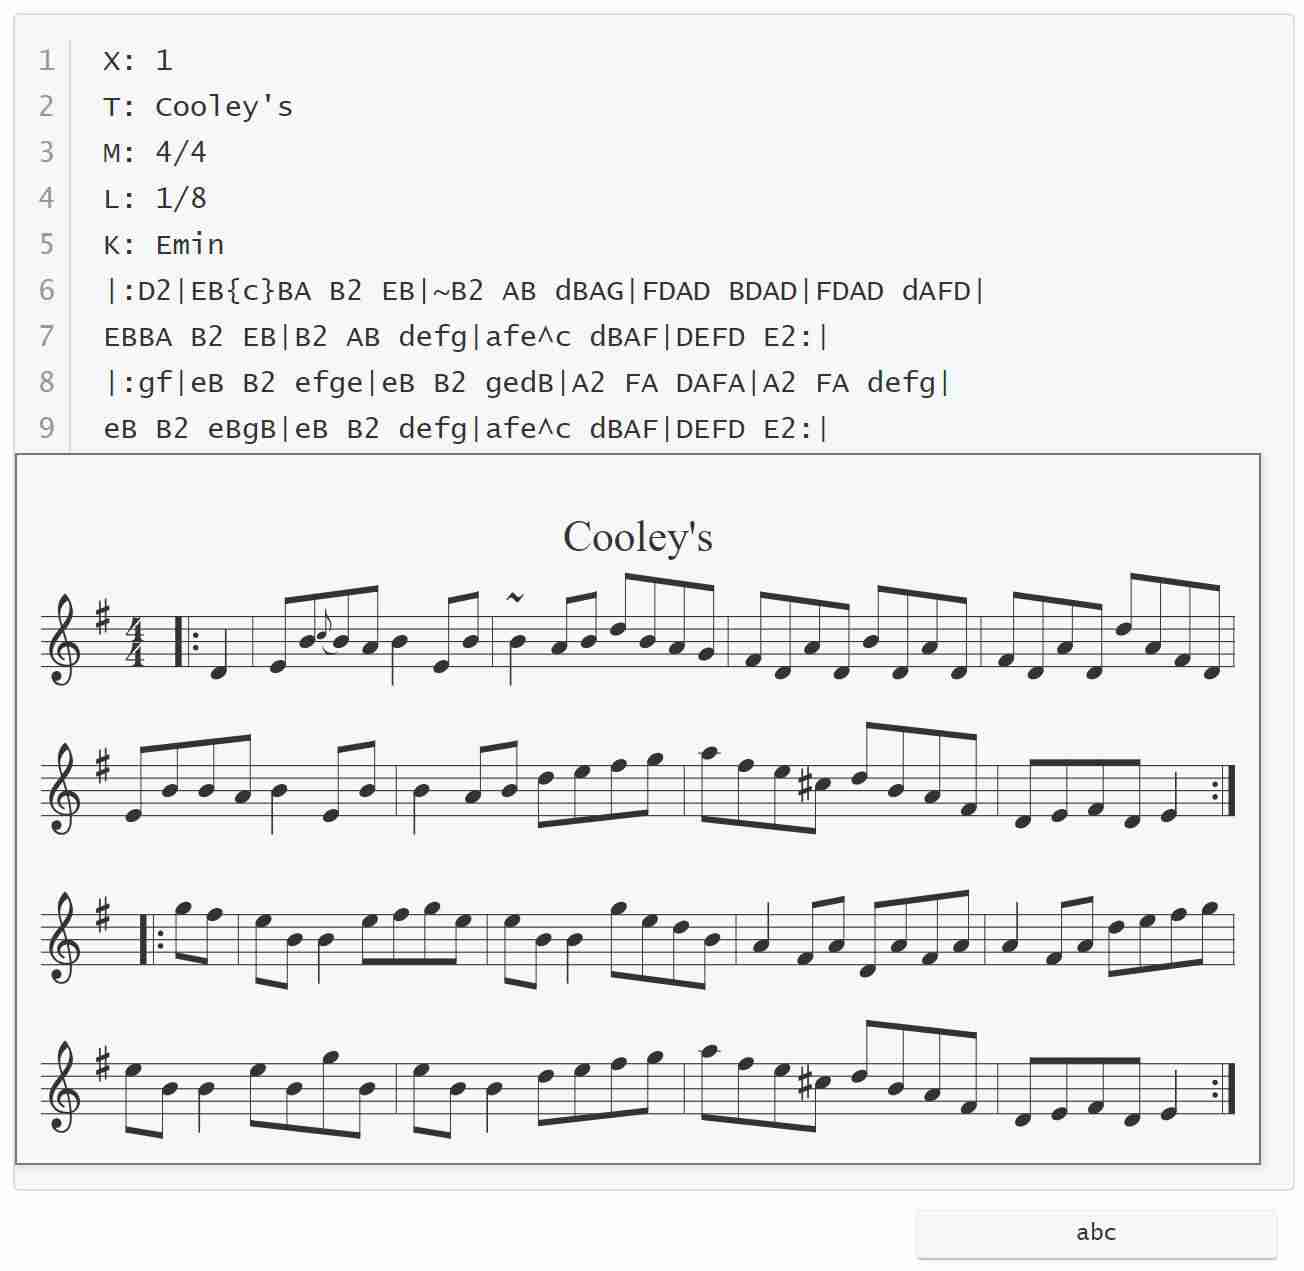
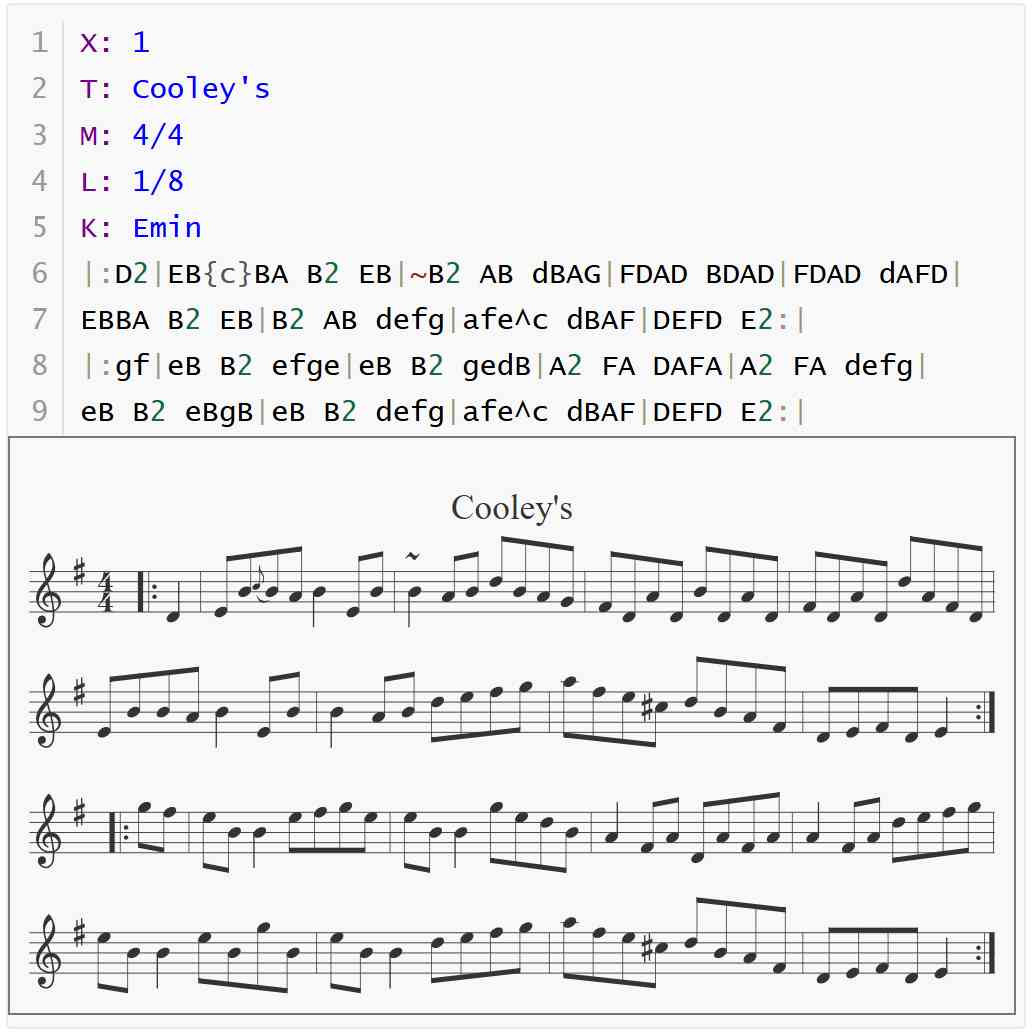
feat(plugin): add abcjs codeblock syntax highlighting

Changed region(s): [[0.0, 0.031, 0.9894, 0.9922]]

diff --git a/src/main.ts b/src/main.ts
@@ -8,6 +8,7 @@ export default class extends Plugin<AbcSettings> {
 
   private lang = DEFAULT_SETTINGS.codeblockType
   private processorDisposable: any
+  private highlightDisposable: any
 
   onload() {
 
@@ -21,10 +22,13 @@ export default class extends Plugin<AbcSettings> {
     this.registerSettingTab(new AbcSettingTab(this))
 
     this.registerAbcPostProcessor()
+    this.registerCodeblockHighlightMode()
     this.register(
       this.settings.onChange('codeblockType', () => {
         this.unregisterAbcPostProcessor()
+        this.unregisterHighlightMode()
         this.registerAbcPostProcessor()
+        this.registerCodeblockHighlightMode()
       }))
   }
 
@@ -52,9 +56,76 @@ export default class extends Plugin<AbcSettings> {
   }
 
   unregisterAbcPostProcessor() {
-    this.processorDisposable()
-    this.unregister(this.processorDisposable)
-
+    this.processorDisposable && this.processorDisposable()
     $(`pre[lang="${this.lang}"] .md-diagram-panel.md-fences-adv-panel`).remove()
+  }
+
+  registerCodeblockHighlightMode() {
+    const modeFactory = () => ({
+      startState: () => ({ header: false }),
+      copyState: (state: any) => ({ header: state.header }),
+      blankLine: (state: any) => { state.header = false },
+      token: (stream: any, state: any) => {
+        if (stream.sol()) state.header = false
+
+        // comment to end of line
+        if (stream.match(/^%.*/)) return 'comment'
+
+        // header field (X:, T:, K:, ...) and its value, valid at line start
+        if (stream.sol() && stream.match(/^[A-Za-z]:/)) {
+          state.header = true
+          return 'keyword'
+        }
+        if (state.header) {
+          stream.skipToEnd()
+          return 'def'
+        }
+
+        if (stream.eatSpace()) return null
+
+        // inline field [K:G] / annotation
+        if (stream.match(/^\[[A-Za-z]:/)) return 'keyword'
+        // chord [CEG] (do not cross bar lines)
+        if (stream.match(/^\[[^\]|]*\]/)) return 'atom'
+
+        // bar lines: | || |] [| :| |: ::
+        if (stream.match(/^(\[|\]|\|{1,2}|:{1,2}|:\||\|:)/)) return 'bracket'
+
+        // note with accidental and octave marks
+        if (stream.match(/^(\^{1,2}|_{1,2}|=)?[A-Ga-g][,']*/)) return 'variable'
+        // rest
+        if (stream.match(/^[xz]/)) return 'def'
+
+        // duration and broken rhythm
+        if (stream.match(/^\d+(\/\d+)?|^\/{1,2}/)) return 'number'
+        if (stream.match(/^[><\-~.]/)) return 'operator'
+
+        // ties, slurs, tuplets
+        if (stream.match(/^[()]/)) return 'bracket'
+
+        // grace notes and decorations
+        if (stream.match(/^\{[^}]*\}/)) return 'meta'
+        if (stream.match(/^![^!]*!|^\+[^+]*\+/)) return 'meta'
+        // quoted chord symbol
+        if (stream.match(/^"[^"]*"/)) return 'string'
+
+        // lone accidental
+        if (stream.match(/^(\^{1,2}|_{1,2}|=+)/)) return 'operator'
+
+        stream.next()
+        return null
+      }
+    })
+
+    this.highlightDisposable = this.app.features.markdownEditor.codeblock.registerMode({
+      lang: this.lang,
+      mode: modeFactory,
+    })
+  }
+
+  unregisterHighlightMode() {
+    if (this.highlightDisposable) {
+      this.highlightDisposable()
+    }
   }
 }
